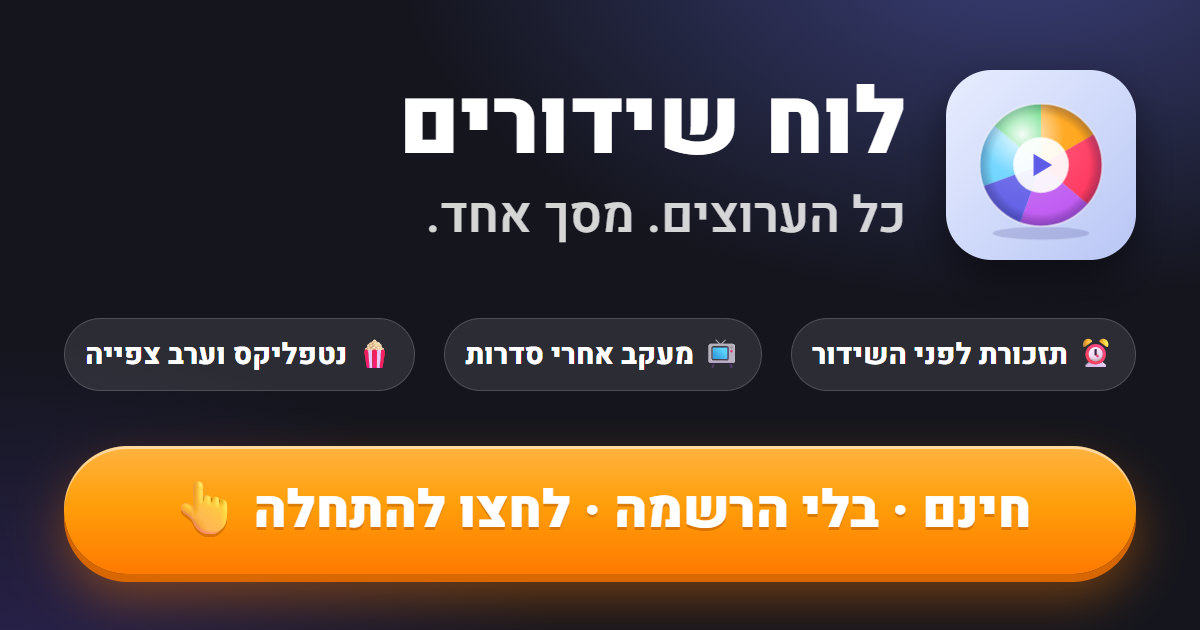
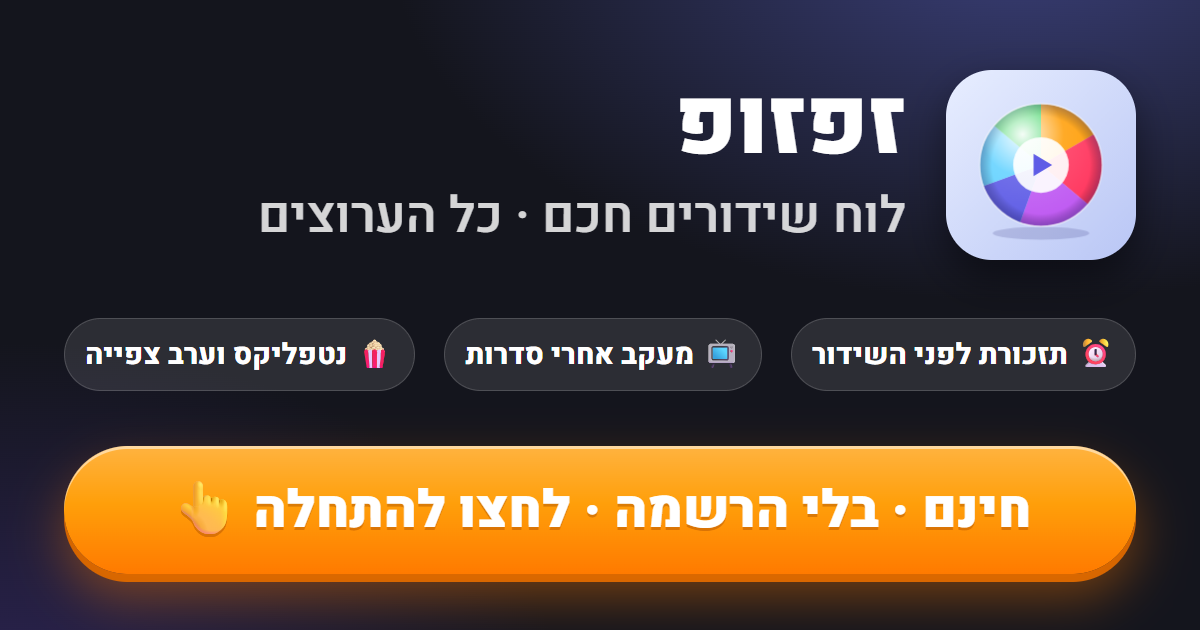
גרסה 1.49: שם חדש – זפזופ (כותרת, מסך הבית, תצוגות מקדימות, שיתוף, התראות)
Claude-Session: https://claude.ai/code/session_016kk1MFVk24iCv9BFW85WhE

Changed region(s): [[0.2158, 0.3016, 0.7708, 0.3921], [0.3392, 0.1206, 0.7708, 0.2413]]

diff --git a/js/share.js b/js/share.js
@@ -62,7 +62,7 @@
   }
   function bubbleHtml(x, mode, imgUrl) {
     // וואטסאפ לא תומך במילה עם קישור: הוא מציג את הכתובת, ומעליה (במצב טקסט) כרטיס תצוגה מקדימה מתגיות og של האתר
-    var strip = '<div class="shlnk"><img src="icon-192.png" alt=""><div><b>לוח שידורים 📺</b><span>לחצו לשמירה ביומן ולתזכורת</span><i dir="ltr">eladweiss-ops.github.io</i></div></div>';
+    var strip = '<div class="shlnk"><img src="icon-192.png" alt=""><div><b>זפזופ 📺</b><span>לחצו לשמירה ביומן ולתזכורת</span><i dir="ltr">eladweiss-ops.github.io</i></div></div>';
     var cta = '<div class="shl2">' + CTA + '</div><div class="shl3" dir="ltr">' + esc(x.link) + "</div>";
     if (mode === "card") return '<div class="shbub" dir="rtl"><div class="shpic' + (imgUrl ? "" : " ld") + '">' + (imgUrl ? '<img alt="תצוגה מקדימה של הכרטיס" src="' + imgUrl + '">' : "<span>מכינים את הכרטיס…</span>") + "</div>" + cta + "</div>";
     return '<div class="shbub" dir="rtl">' + strip + '<div class="shl1">' + x.emoji + " <b><bdi dir=\"auto\">" + esc(x.title) + "</bdi></b></div>" +
@@ -118,7 +118,7 @@
       ctx.direction = "ltr"; ctx.textAlign = "left"; ctx.textBaseline = "alphabetic"; ctx.globalAlpha = 0.22; ctx.font = "400 330px " + F; ctx.fillStyle = "#fff"; ctx.fillText(x.emoji, 18, 330); ctx.globalAlpha = 1;
       ctx.direction = "rtl"; ctx.textAlign = "right"; ctx.fillStyle = "#fff";
       // שורה עליונה: סימן האפליקציה (ימין) ושידור ישיר (שמאל)
-      ctx.font = "700 36px " + F; ctx.globalAlpha = 0.92; ctx.fillText("📺 לוח שידורים", R, 100); ctx.globalAlpha = 1;
+      ctx.font = "700 36px " + F; ctx.globalAlpha = 0.92; ctx.fillText("📺 זפזופ", R, 100); ctx.globalAlpha = 1;
       if (x.live) {
         ctx.font = "800 32px " + F; var lw = Math.ceil(ctx.measureText("● שידור ישיר").width) + 48;
         ctx.fillStyle = "#fff"; rr(ctx, PAD, 56, lw, 60, 30); ctx.fill(); ctx.fillStyle = "#D70015"; ctx.textAlign = "center"; ctx.fillText("● שידור ישיר", PAD + lw / 2, 98); ctx.textAlign = "right"; ctx.fillStyle = "#fff";

diff --git a/index.html b/index.html
@@ -3,15 +3,15 @@
 <head>
 <meta charset="utf-8">
 <meta name="viewport" content="width=device-width, initial-scale=1, viewport-fit=cover">
-<title>לוח שידורים אישי</title>
+<title>זפזופ · לוח שידורים</title>
 <link rel="manifest" href="manifest.webmanifest">
 <link rel="icon" type="image/png" sizes="192x192" href="icon-192.png">
 <link rel="apple-touch-icon" href="apple-touch-icon.png">
 <meta name="theme-color" content="#0E0F14">
 <meta name="description" content="מה משודר עכשיו, לוח לכל הערוצים ותזכורות לתוכניות">
 <meta property="og:type" content="website">
-<meta property="og:site_name" content="לוח שידורים">
-<meta property="og:title" content="לוח שידורים 📺">
+<meta property="og:site_name" content="זפזופ">
+<meta property="og:title" content="זפזופ 📺">
 <meta property="og:description" content="לחצו לשמירה ביומן ולתזכורת">
 <meta property="og:url" content="https://eladweiss-ops.github.io/tv-guide/">
 <meta property="og:image" content="https://eladweiss-ops.github.io/tv-guide/og-image.png">
@@ -21,11 +21,11 @@
 <meta name="twitter:card" content="summary_large_image">
 <meta property="og:locale" content="he_IL">
 <meta name="apple-mobile-web-app-capable" content="yes">
-<meta name="apple-mobile-web-app-title" content="לוח שידורים">
+<meta name="apple-mobile-web-app-title" content="זפזופ">
 <link rel="stylesheet" href="https://fonts.googleapis.com/css2?family=Heebo:wght@400;500;600;700;800&display=swap">
 <script>
 /* גרסה ועדכון: כאן, ורק כאן, מעלים VERSION ו-BUILD בכל שינוי. BUILD משמש גם כ-?v= לקובצי css/js (cache busting). */
-var VERSION = "1.48", BUILD = "2026-10-31.48";
+var VERSION = "1.49", BUILD = "2026-10-31.49";
 window.TVG = { VERSION: VERSION, BUILD: BUILD, files: {}, failed: [], list: [] };
 /* ?r2=<זמן> מופיע רק אחרי כשל טעינה (ראו הסקריפט האחרון); הוא עוקף מטמון של css/js */
 var BUST = (location.search.match(/[?&]r2=(\d+)/) || [])[1];

diff --git a/js/settings.js b/js/settings.js
@@ -25,7 +25,7 @@
 
   // ---- שיתוף האפליקציה עם חברים: קישור ההזמנה join/ (תמונה ותיאור משלו בוואטסאפ) ----
   var JOIN = "https://eladweiss-ops.github.io/tv-guide/join/";
-  var APPTXT = "היי! 👋 מצאתי אפליקציה ללוח שידורים: כל הערוצים במקום אחד, תזכורת לפני שהתוכנית מתחילה, מעקב אחרי סדרות ומה חדש בנטפליקס.\nחינם ובלי הרשמה. באייפון: פותחים בספארי ← שיתוף ← \"הוסף למסך הבית\".\n👇\n" + JOIN;
+  var APPTXT = "היי! 👋 תכירו את זפזופ 📺 לוח שידורים חכם: כל הערוצים במקום אחד, תזכורת לפני שהתוכנית מתחילה, מעקב אחרי סדרות ומה חדש בנטפליקס.\nחינם ובלי הרשמה. באייפון: פותחים בספארי ← שיתוף ← \"הוסף למסך הבית\".\n👇\n" + JOIN;
   function appWa() {
     var u = "https://wa.me/?text=" + encodeURIComponent(APPTXT), w = null;
     try { w = window.open(u, "_blank"); } catch (e) {}
@@ -33,7 +33,7 @@
     TVG.pill("📤 נשלח לוואטסאפ", 1800);
   }
   function appShare() {
-    if (navigator.share) { navigator.share({ title: "לוח שידורים", text: APPTXT.replace(JOIN, "").trim(), url: JOIN }).catch(function () {}); return; }
+    if (navigator.share) { navigator.share({ title: "זפזופ", text: APPTXT.replace(JOIN, "").trim(), url: JOIN }).catch(function () {}); return; }
     var ok = function () { TVG.pill("🔗 הקישור הועתק", 1800); };
     if (navigator.clipboard && navigator.clipboard.writeText) navigator.clipboard.writeText(APPTXT).then(ok, function () { TVG.pill(JOIN, 4000); });
     else TVG.pill(JOIN, 4000);

diff --git a/join/index.html b/join/index.html
@@ -3,12 +3,12 @@
 <head>
 <meta charset="utf-8">
 <meta name="viewport" content="width=device-width, initial-scale=1, viewport-fit=cover">
-<title>לוח שידורים 📺</title>
+<title>זפזופ 📺</title>
 <!-- קישור ההזמנה לאפליקציה: תמונה ותיאור משלו בתצוגה המקדימה בוואטסאפ (האתר סטטי, וכל index.html משתף את og-image של "שמירה ביומן"), ואז מעבר מיידי לאפליקציה -->
 <meta name="description" content="כל הערוצים במסך אחד: תזכורת לפני השידור, מעקב אחרי סדרות, נטפליקס וערב צפייה עם חברים. חינם, בלי הרשמה.">
 <meta property="og:type" content="website">
-<meta property="og:site_name" content="לוח שידורים">
-<meta property="og:title" content="לוח שידורים 📺 כל הערוצים. מסך אחד.">
+<meta property="og:site_name" content="זפזופ">
+<meta property="og:title" content="זפזופ 📺 כל הערוצים. מסך אחד.">
 <meta property="og:description" content="תזכורת לפני השידור, מעקב אחרי סדרות, נטפליקס וערב צפייה עם חברים. חינם, בלי הרשמה.">
 <meta property="og:url" content="https://eladweiss-ops.github.io/tv-guide/join/">
 <meta property="og:image" content="https://eladweiss-ops.github.io/tv-guide/og-join.png">
@@ -30,7 +30,7 @@
 </head>
 <body>
   <img src="../icon-192.png" alt="">
-  <div>פותחים את לוח שידורים…</div>
+  <div>פותחים את זפזופ…</div>
   <a href="../">לא נפתח? לחצו כאן</a>
 </body>
 </html>

diff --git a/sw.js b/sw.js
@@ -7,7 +7,7 @@ const hhmm = (ts) => new Intl.DateTimeFormat("he-IL", { timeZone: "Asia/Jerusale
 
 self.addEventListener("push", (e) => {
   let d = {};
-  try { d = e.data ? e.data.json() : {}; } catch (x) { d = { title: "לוח שידורים", body: e.data && e.data.text() }; }
+  try { d = e.data ? e.data.json() : {}; } catch (x) { d = { title: "זפזופ", body: e.data && e.data.text() }; }
   const tag = d.tag || "tvg";
   const o = {
     body: rtl(d.body), dir: "rtl", lang: "he", tag, renotify: !!d.tag, icon: "icon-192.png", badge: "badge-96.png",
@@ -15,7 +15,7 @@ self.addEventListener("push", (e) => {
   };
   // כפתורים: אנדרואיד/כרום בלבד. באייפון מתעלמים מהם (והנודניק שם דרך פתיחת האפליקציה)
   if (d.snz) o.actions = [{ action: "snz", title: "💤 עוד 5 דק׳" }, { action: "open", title: "פתיחה בלוח" }];
-  e.waitUntil(self.registration.showNotification(rtl(d.title || "לוח שידורים"), o));
+  e.waitUntil(self.registration.showNotification(rtl(d.title || "זפזופ"), o));
 });
 
 async function snooze(n) {

diff --git a/js/push.js b/js/push.js
@@ -28,7 +28,7 @@
   // איך מאשרים התראות אחרי שנדחו: ההוראה תלויה במכשיר, ובאנדרואיד גם באם האפליקציה מותקנת
   function denyMsg() {
     if (TVG.isAndroid) return "ההתראות לא אושרו. " + (standalone ? "אפשר לאשר דרך פרטי האפליקציה ← התראות" : "אפשר לאשר בהגדרות האתר בדפדפן (לרוב סמל המנעול ליד הכתובת) ← הרשאות ← התראות");
-    return "ההתראות לא אושרו. אפשר לאשר בהגדרות ← התראות ← לוח שידורים";
+    return "ההתראות לא אושרו. אפשר לאשר בהגדרות ← התראות ← זפזופ";
   }
   // באנדרואיד, אחרי שהתראות הופעלו מציעים (פעם אחת) להתקין את האפליקציה
   function offerInstall() {

diff --git a/js/backup.js b/js/backup.js
@@ -104,8 +104,8 @@
   }
   $("#bkShare").addEventListener("click", function () {
     var link = myLink(); bkPush();
-    var txt = "הקישור האישי שלי ללוח השידורים (לשחזור במכשיר חדש):";
-    if (navigator.share) navigator.share({ title: "לוח שידורים - קישור אישי", text: txt, url: link }).catch(function () {});
+    var txt = "הקישור האישי שלי לזפזופ (לשחזור במכשיר חדש):";
+    if (navigator.share) navigator.share({ title: "זפזופ - קישור אישי", text: txt, url: link }).catch(function () {});
     else if (navigator.clipboard && navigator.clipboard.writeText) navigator.clipboard.writeText(link).then(function () { TVG.pill("הקישור הועתק", 1600); }, function () { $("#bkCode").value = link; });
     else $("#bkCode").value = link;
   });

diff --git a/js/landing.js b/js/landing.js
@@ -79,7 +79,7 @@
       '<h1 class="lnd-ttl"><bdi dir="auto">' + (stub ? "תוכנית ב" + chB(r.id) : esc(p.title)) + "</bdi></h1>" + (b ? '<div class="lnd-bs">' + b + "</div>" : "") + "</div>";
   }
   function bodyHtml() {
-    var h = '<div class="lnd-top"><span class="lnd-brand">📺 לוח שידורים</span><button type="button" class="glass round lnd-x" data-landclose aria-label="סגירה">✕</button></div>';
+    var h = '<div class="lnd-top"><span class="lnd-brand">📺 זפזופ</span><button type="button" class="glass round lnd-x" data-landclose aria-label="סגירה">✕</button></div>';
     if (L.kind === "missing") {
       var pr = L.pr, has = pr && TVG.chName(pr.id), d = pr && new Date(pr.ts);
       return h + '<div class="lnd-empty"><div class="lnd-big">🔎</div><h1>לא מצאנו את התוכנית</h1>' +

diff --git a/js/party.js b/js/party.js
@@ -321,7 +321,7 @@
   var GV = null; // {id, v, ans, busy, safari, tick, name}
   var poll = 0;
   function whereTxt(v) { return v.place === "home" ? (v.host.name ? "אצל " + v.host.name : "אצל המארח") : "כל אחד מהבית"; }
-  function topBar() { return '<div class="lnd-top"><span class="lnd-brand">📺 לוח שידורים</span><button type="button" class="glass round lnd-x" data-ptyclose aria-label="סגירה">✕</button></div>'; }
+  function topBar() { return '<div class="lnd-top"><span class="lnd-brand">📺 זפזופ</span><button type="button" class="glass round lnd-x" data-ptyclose aria-label="סגירה">✕</button></div>'; }
   function hasWatch(v) { return v.kind === "nf" && RE_NF.test(v.link || ""); }
   function landBody() {
     var v = GV.v, h = topBar();
